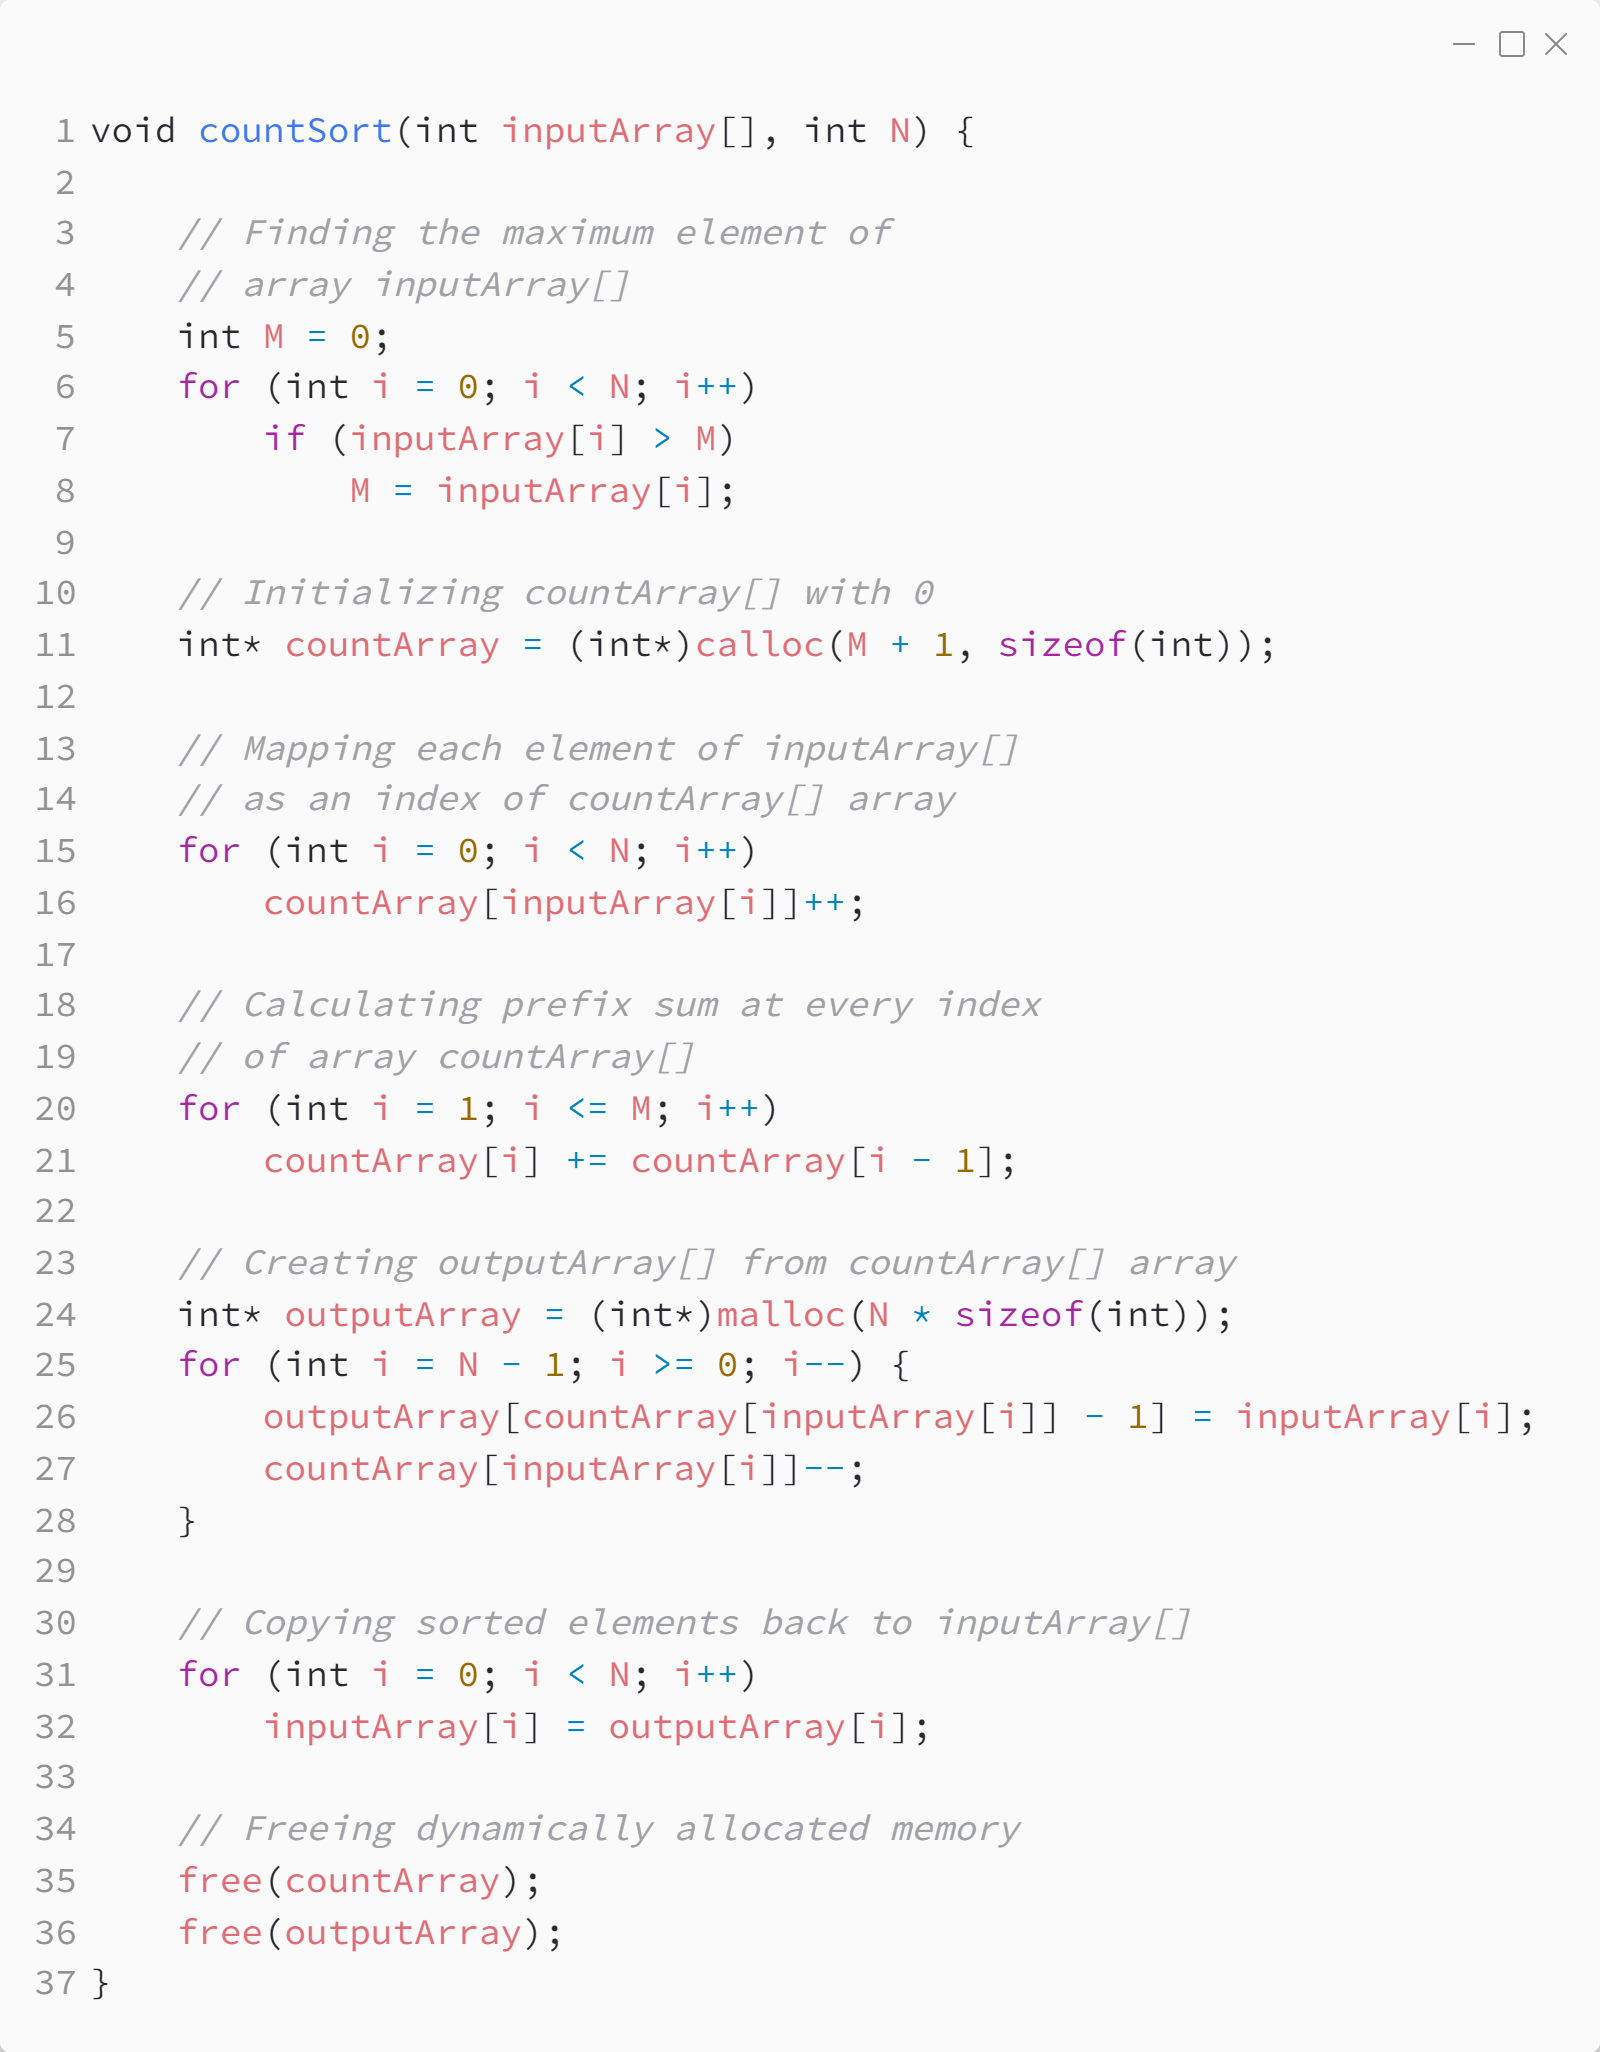
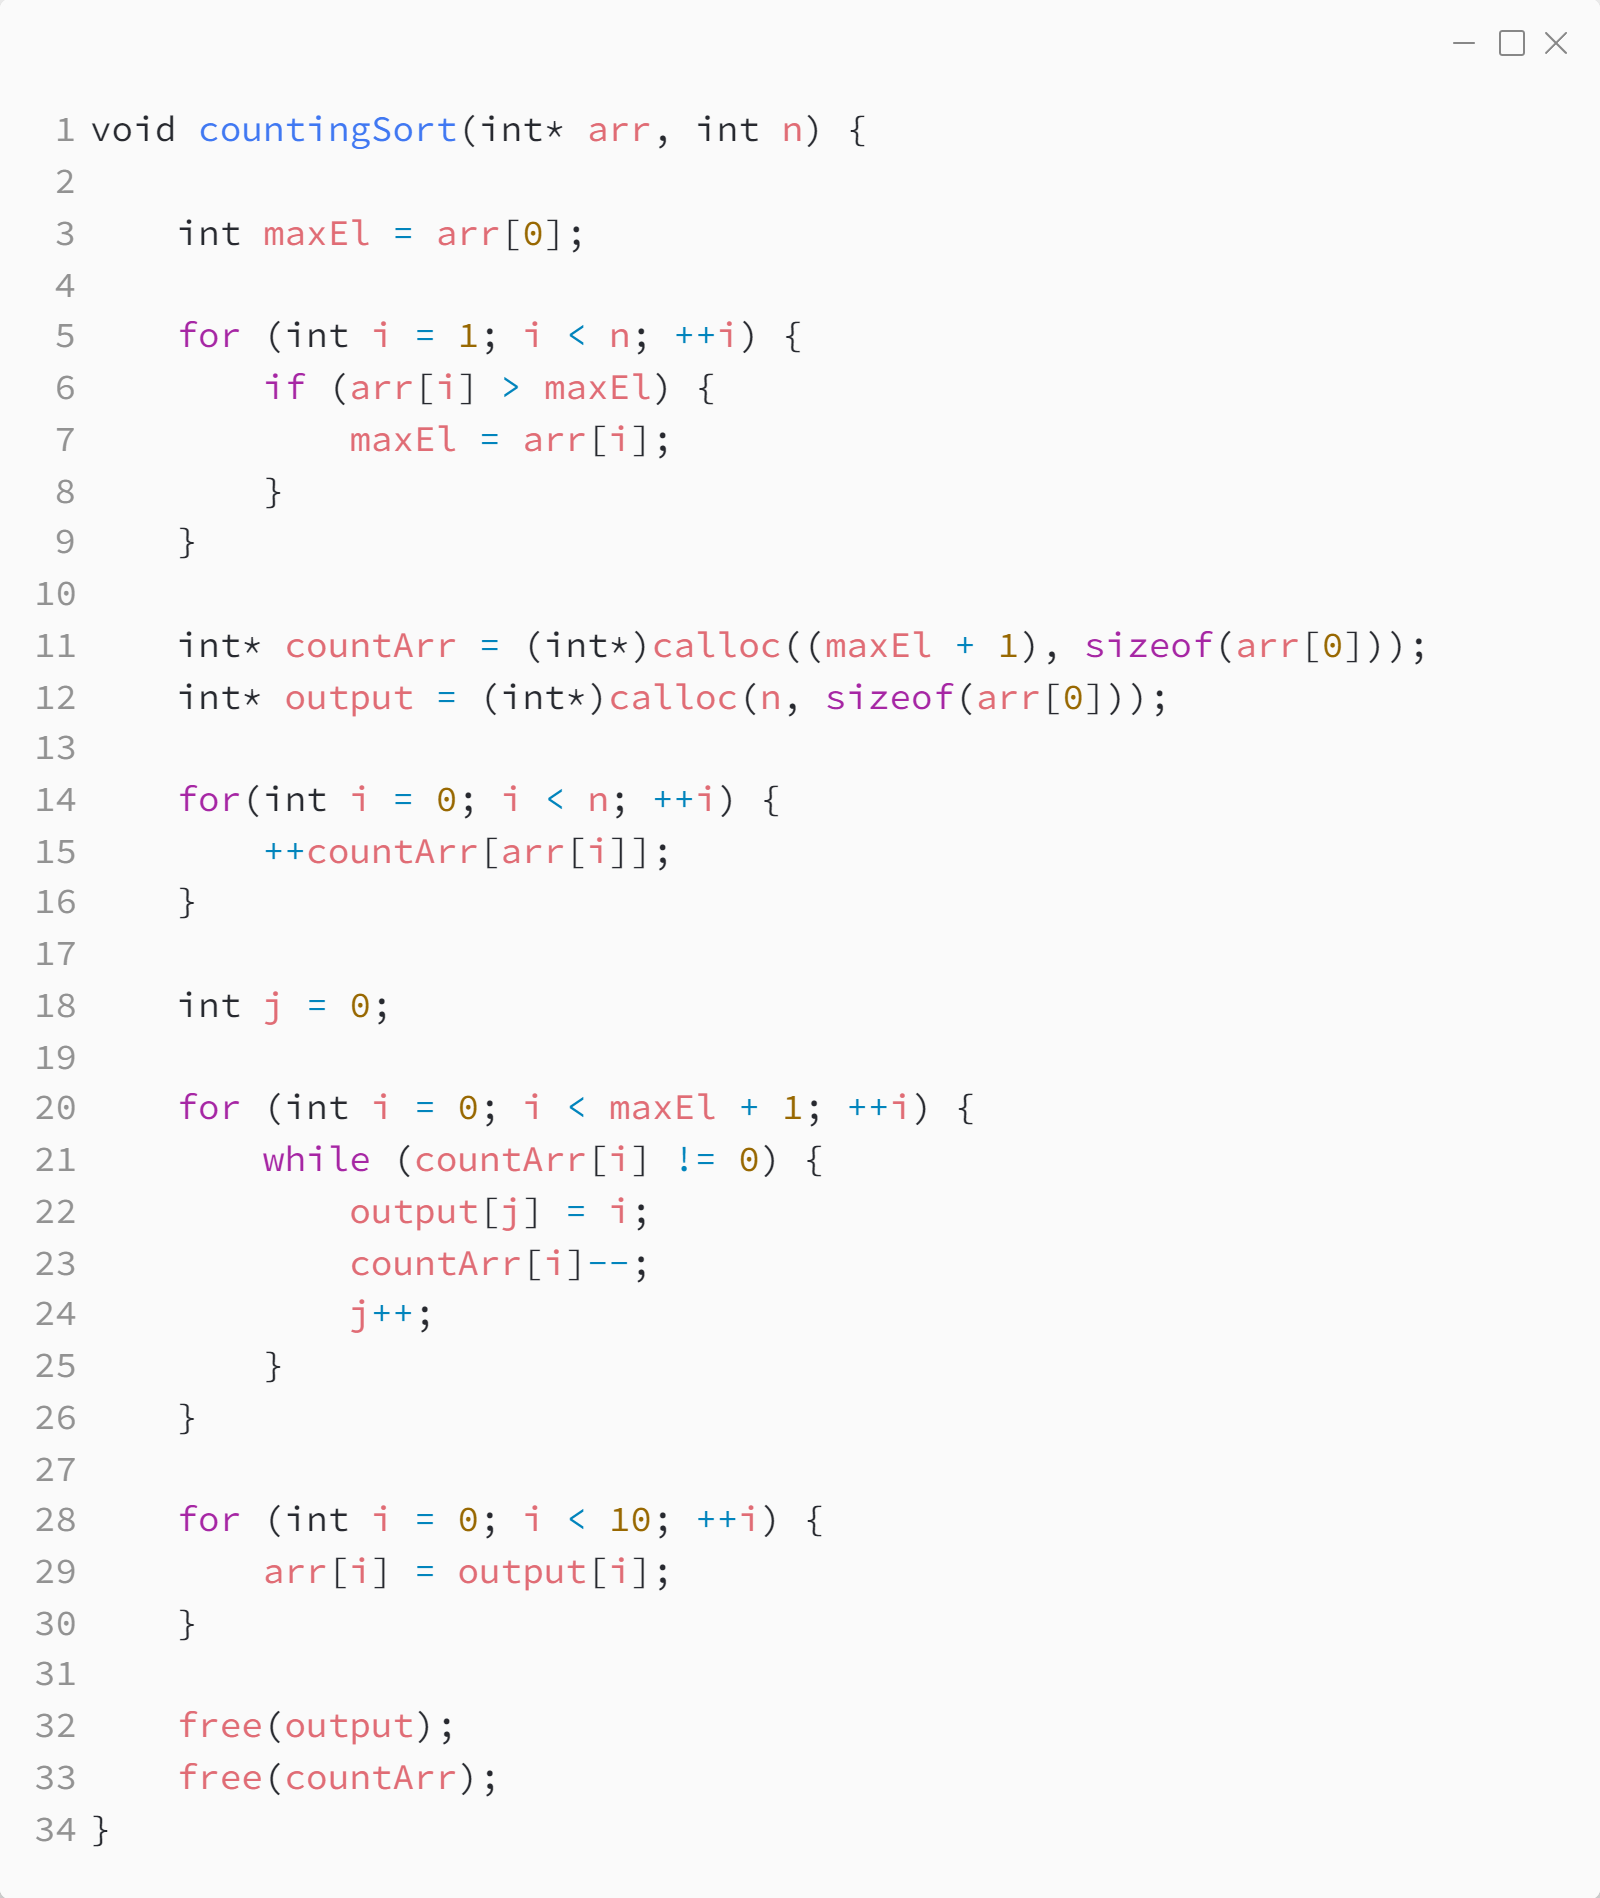
Change counting sort to simpler one

diff --git a/2_sorting_part_1/practice/src/counting_sort.c b/2_sorting_part_1/practice/src/counting_sort.c
@@ -1,57 +1,58 @@
 #include <stdio.h>
 #include <stdlib.h>
 
-void countSort(int inputArray[], int N) {
+void countingSort(int* arr, int n) {
 
-    // Finding the maximum element of
-    // array inputArray[]
-    int M = 0;
-    for (int i = 0; i < N; i++)
-        if (inputArray[i] > M)
-            M = inputArray[i];
+    int maxEl = arr[0];
 
-    // Initializing countArray[] with 0
-    int* countArray = (int*)calloc(M + 1, sizeof(int));
-
-    // Mapping each element of inputArray[]
-    // as an index of countArray[] array
-    for (int i = 0; i < N; i++)
-        countArray[inputArray[i]]++;
-
-    // Calculating prefix sum at every index
-    // of array countArray[]
-    for (int i = 1; i <= M; i++)
-        countArray[i] += countArray[i - 1];
-
-    // Creating outputArray[] from countArray[] array
-    int* outputArray = (int*)malloc(N * sizeof(int));
-    for (int i = N - 1; i >= 0; i--) {
-        outputArray[countArray[inputArray[i]] - 1] = inputArray[i];
-        countArray[inputArray[i]]--;
+    for (int i = 1; i < n; ++i) {
+        if (arr[i] > maxEl) {
+            maxEl = arr[i];
+        }
     }
 
-    // Copying sorted elements back to inputArray[]
-    for (int i = 0; i < N; i++)
-        inputArray[i] = outputArray[i];
+    int* countArr = (int*)calloc((maxEl + 1), sizeof(arr[0]));
+    int* output = (int*)calloc(n, sizeof(arr[0]));
 
-    // Freeing dynamically allocated memory
-    free(countArray);
-    free(outputArray);
+    for(int i = 0; i < n; ++i) {
+        ++countArr[arr[i]];
+    }
+
+    int j = 0;
+
+    for (int i = 0; i < maxEl + 1; ++i) {
+        while (countArr[i] != 0) {
+            output[j] = i;
+            countArr[i]--;
+            j++;
+        }
+    }
+
+    for (int i = 0; i < 10; ++i) {
+        arr[i] = output[i];
+    }
+
+    free(output);
+    free(countArr);
 }
 
-// Driver code
-int main() {
+void printArray(int arr[], int n)
+{
+    for (int i = 0; i < n; ++i)
+        printf("%d ", arr[i]);
+    printf("\n");
+}
 
-    // Input array
-    int inputArray[] = {4, 3, 12, 1, 5, 5, 3, 9};
-    int N = sizeof(inputArray) / sizeof(inputArray[0]);
+int main(void)
+{
+    int* a = (int*)calloc(10, sizeof(int));
+    for (int i = 9; i >= 0; i--) {
+        a[10-i] = i;
+    }
 
-    // Sorting the array
-    countSort(inputArray, N);
+    countingSort(a, 10);
 
-    // Printing the sorted array
-    for (int i = 0; i < N; i++)
-        printf("%d ", inputArray[i]);
+    printArray(a, sizeof(a) / sizeof(a[0]));
 
     return 0;
 }
